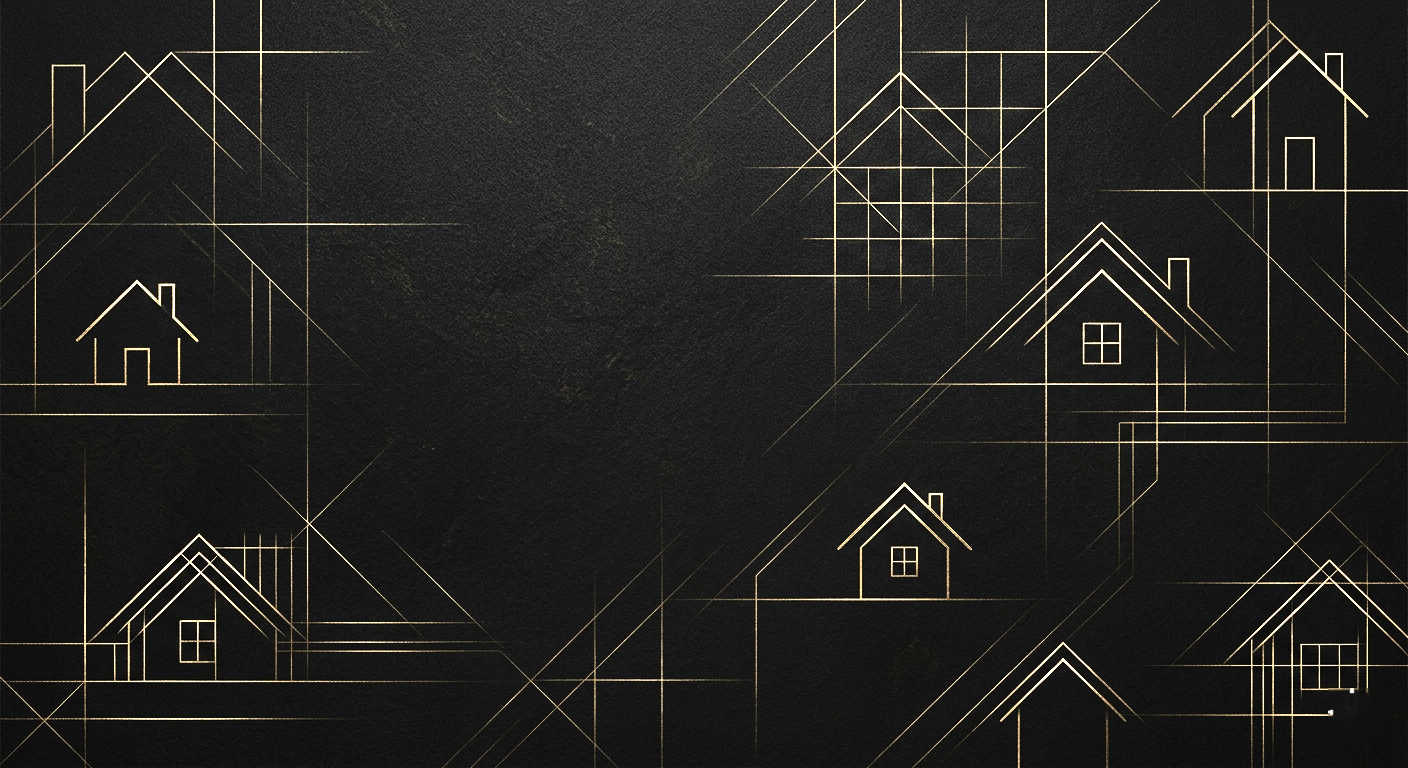
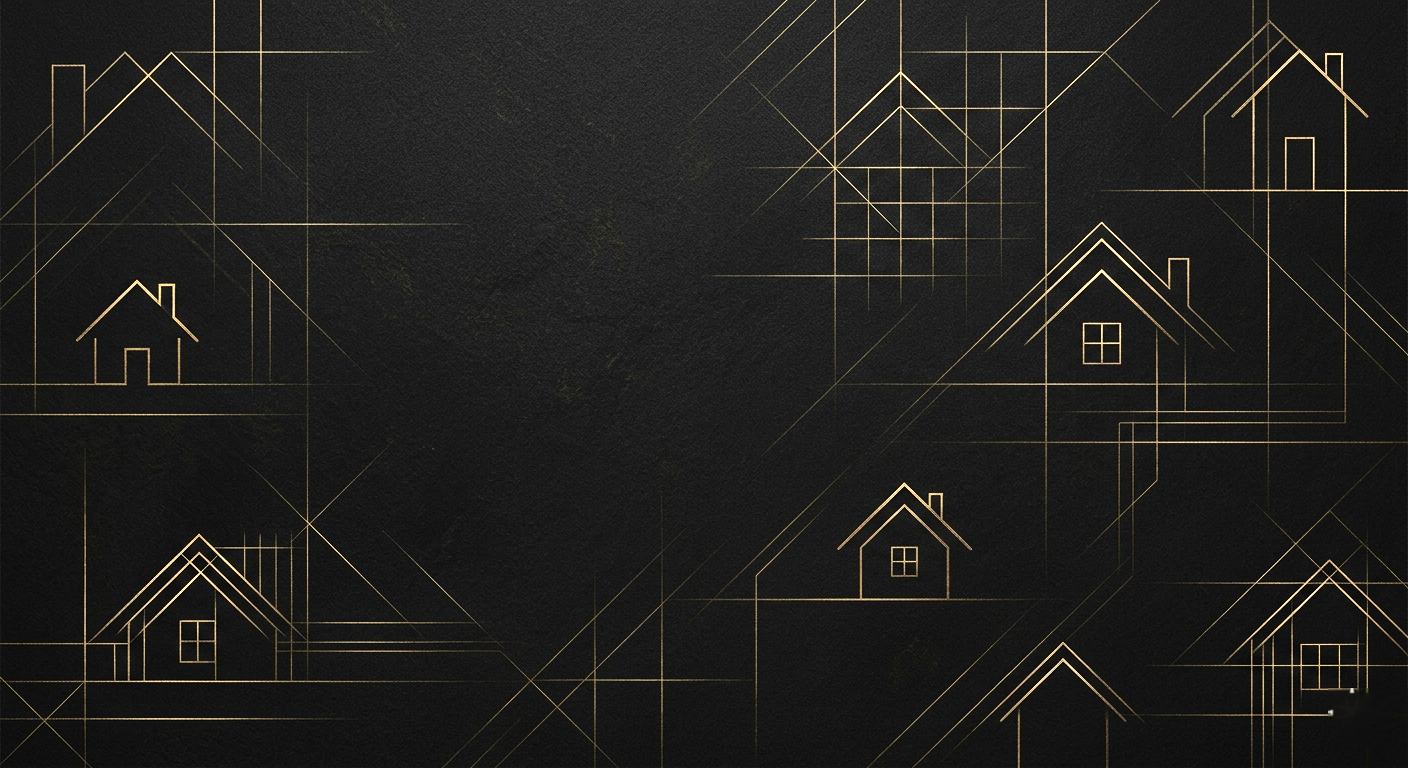
Soften gold line brightness

diff --git a/index.html b/index.html
@@ -146,8 +146,8 @@ DATA BACKUP REMINDER:
 </svg>
 <style>
 *{box-sizing:border-box;margin:0;padding:0}
-html{scroll-behavior:smooth;width:100vw !important;max-width:100vw !important;overscroll-behavior:none;background:#0a0b0f url('https://raw.githubusercontent.com/tml828/apex-homes/main/Gemini_Generated_Image_d4zq21d4zq21d4zq.png?v=3') center center / cover no-repeat fixed}html{width:100vw !important;max-width:100vw !important;overscroll-behavior:none}body{overflow-x:hidden;width:100vw;max-width:100vw;box-sizing:border-box;overscroll-behavior:none}*{box-sizing:border-box}
-body{font-family:'Segoe UI',system-ui,-apple-system,sans-serif;background:#0a0b0f url('https://raw.githubusercontent.com/tml828/apex-homes/main/Gemini_Generated_Image_d4zq21d4zq21d4zq.png?v=3') center center / cover no-repeat fixed;color:#e2ddd4;min-height:100vh;-webkit-font-smoothing:antialiased;font-weight:400;;font-size:16px}
+html{scroll-behavior:smooth;width:100vw !important;max-width:100vw !important;overscroll-behavior:none;background:#0a0b0f url('https://raw.githubusercontent.com/tml828/apex-homes/main/Gemini_Generated_Image_d4zq21d4zq21d4zq.png?v=4') center center / cover no-repeat fixed}html{width:100vw !important;max-width:100vw !important;overscroll-behavior:none}body{overflow-x:hidden;width:100vw;max-width:100vw;box-sizing:border-box;overscroll-behavior:none}*{box-sizing:border-box}
+body{font-family:'Segoe UI',system-ui,-apple-system,sans-serif;background:#0a0b0f url('https://raw.githubusercontent.com/tml828/apex-homes/main/Gemini_Generated_Image_d4zq21d4zq21d4zq.png?v=4') center center / cover no-repeat fixed;color:#e2ddd4;min-height:100vh;-webkit-font-smoothing:antialiased;font-weight:400;;font-size:16px}
 :root{
   --gold:#c9a84c;--gold2:#e8c96a;--gold3:#f5d878;--gold-dim:#7a5e28;
   --gold-bg:rgba(201,168,76,0.08);--gold-bg2:rgba(201,168,76,0.15);--gold-bg3:rgba(201,168,76,0.25);
